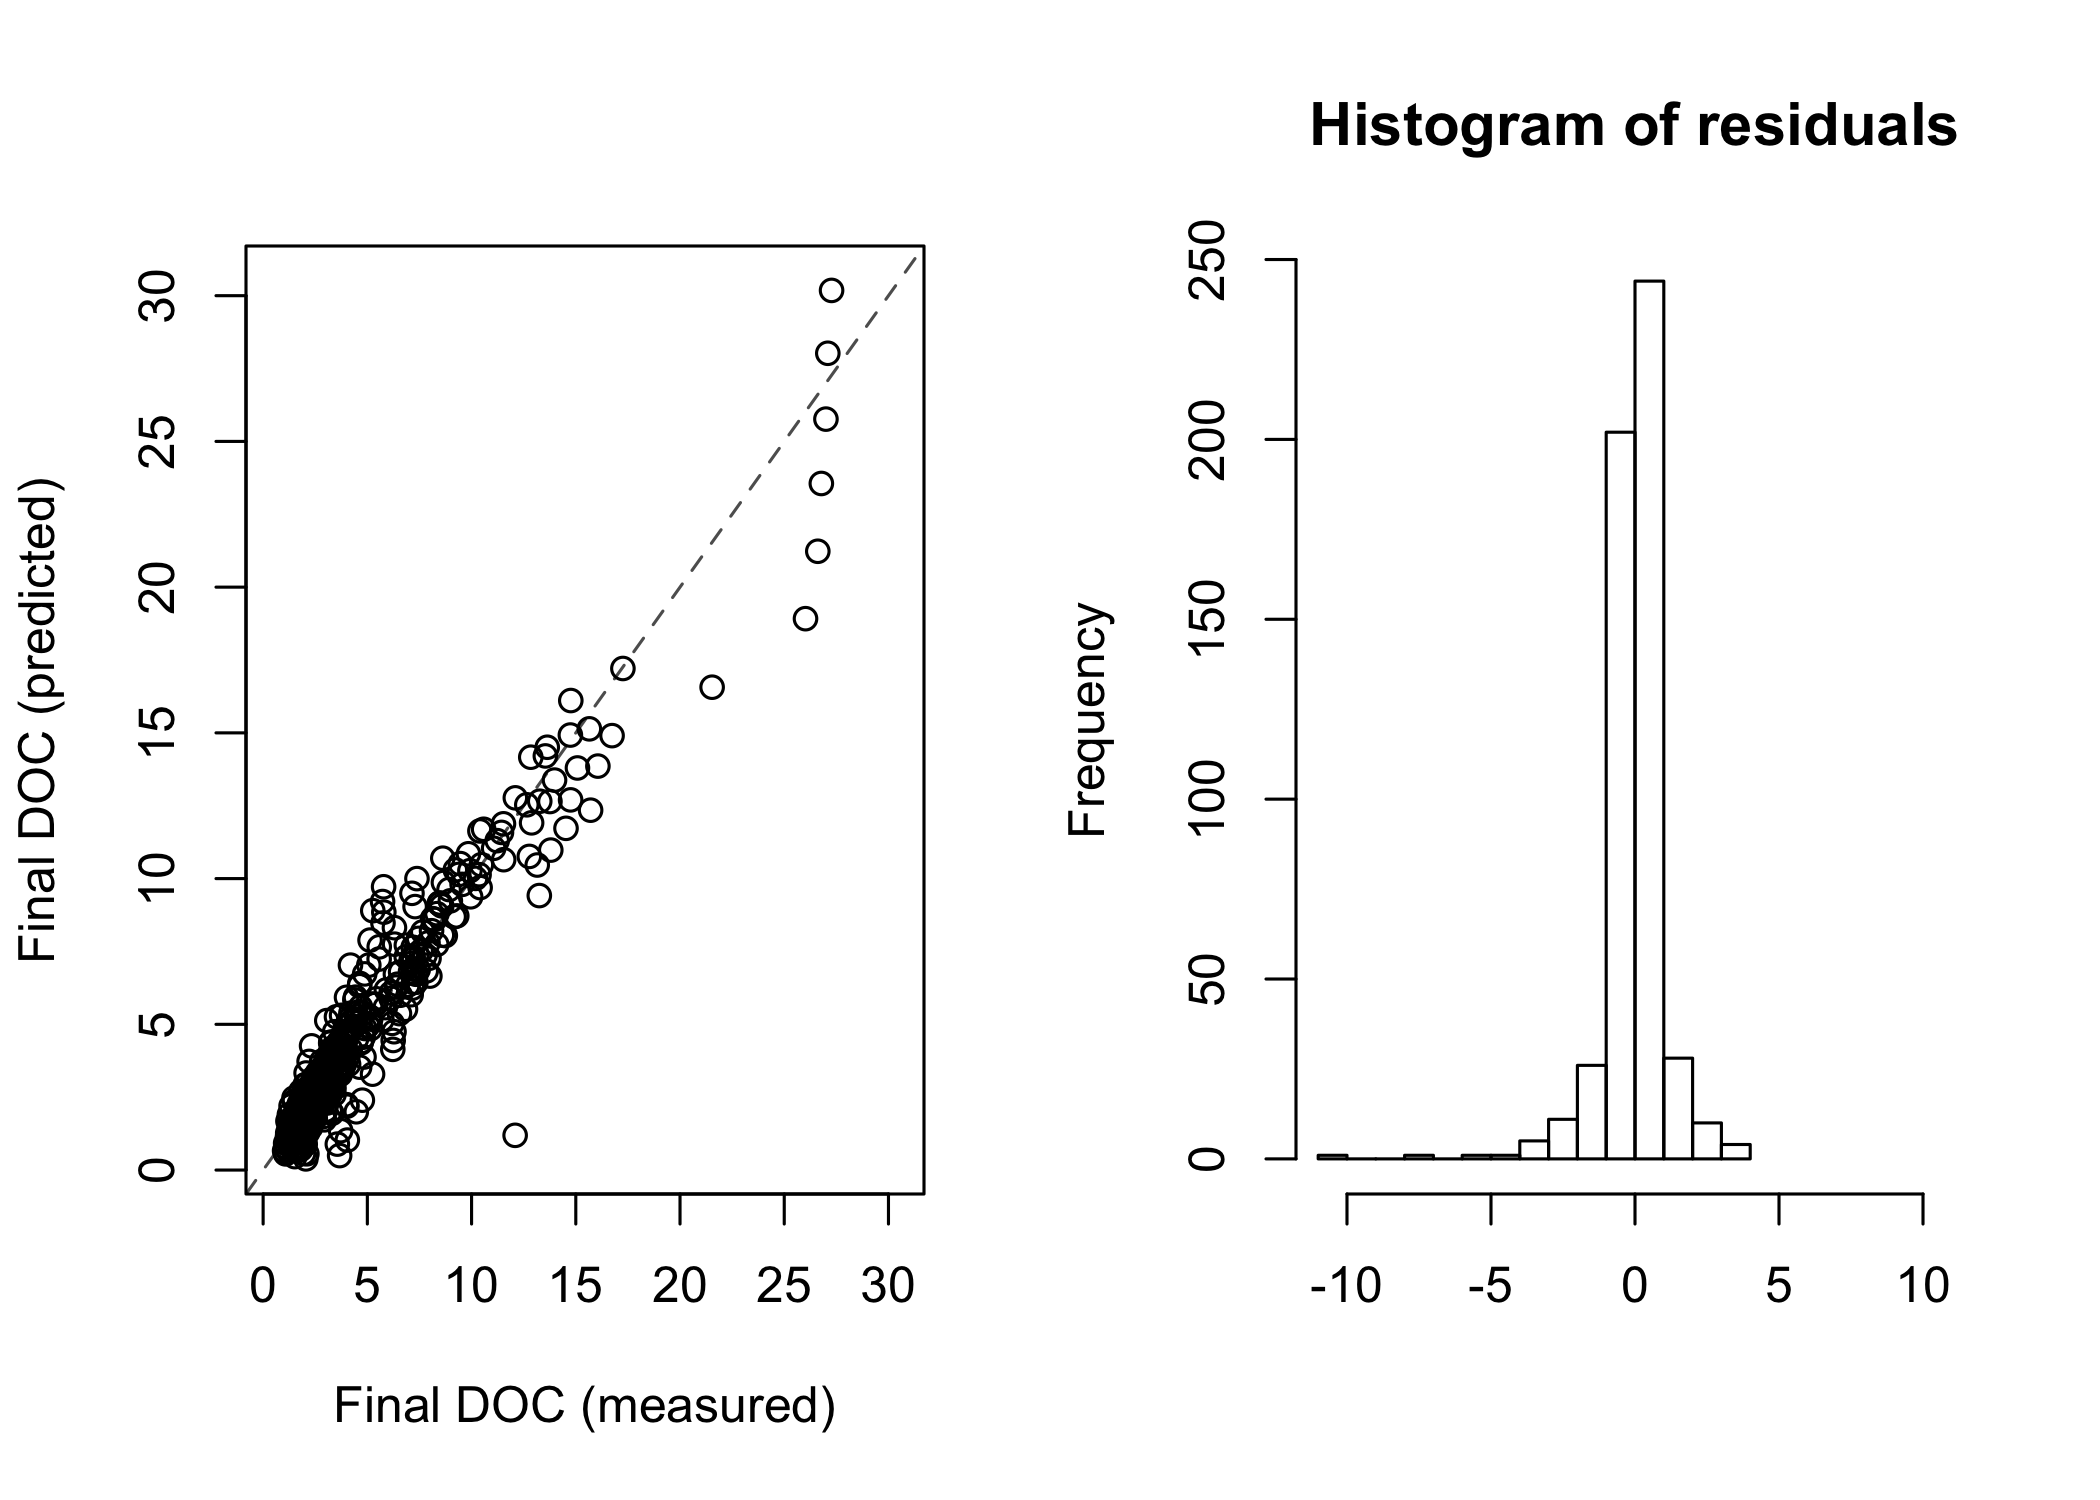
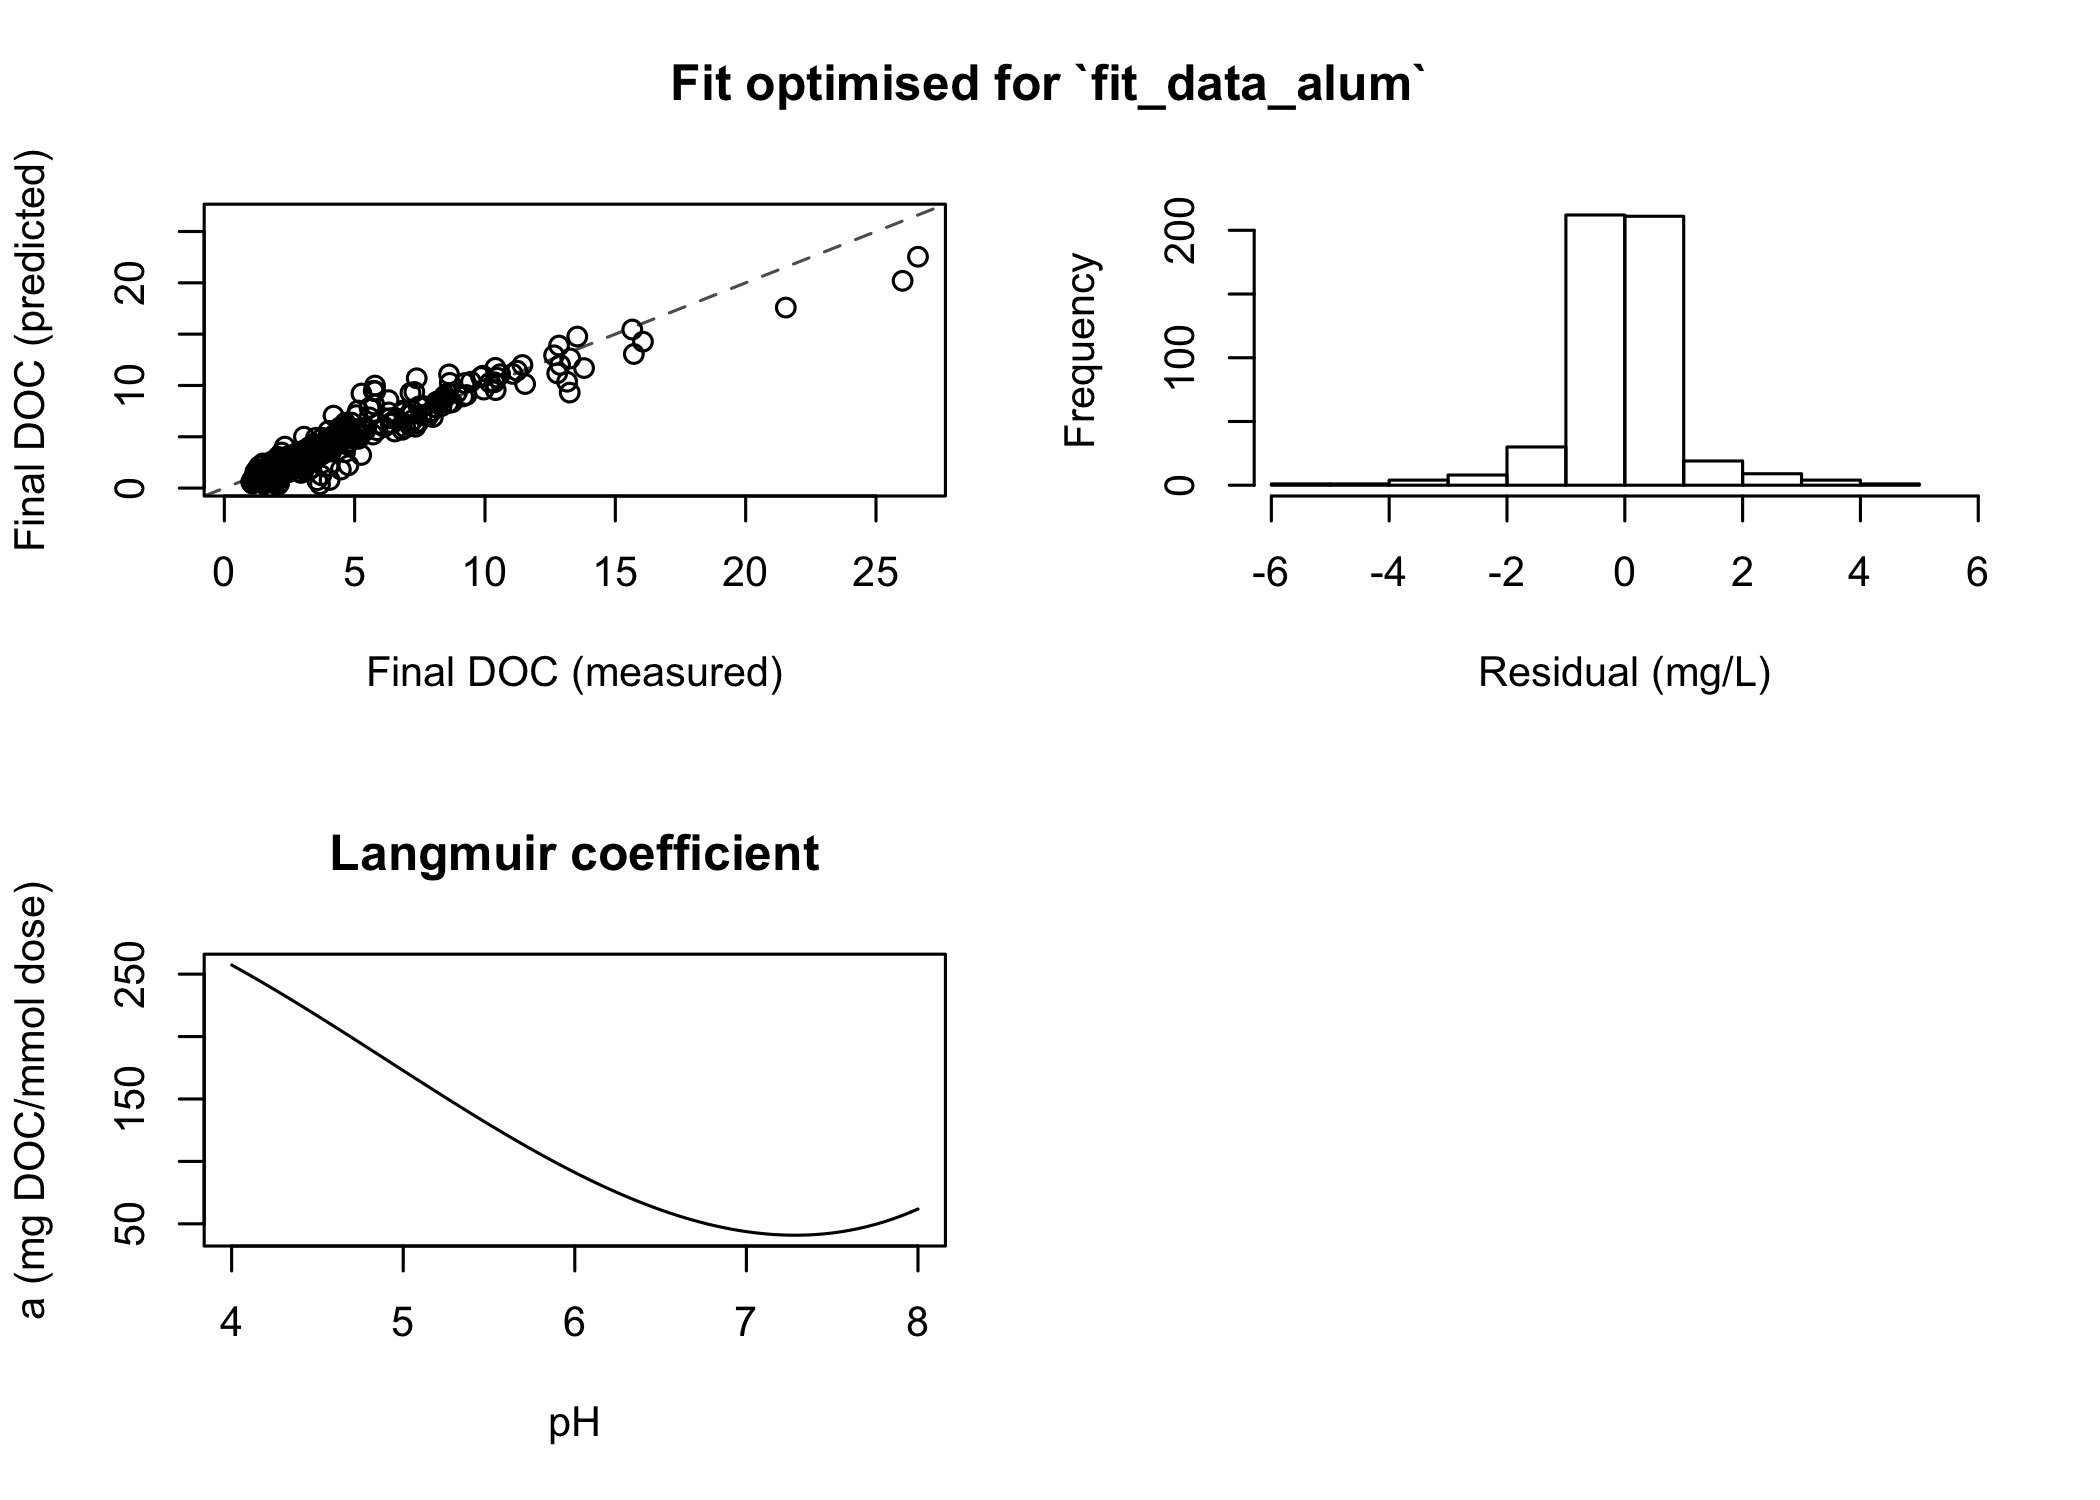
add in ability to examine edwards coeficients

diff --git a/README.md b/README.md
@@ -39,40 +39,36 @@ This is a basic example which shows you how to solve a common problem:
 ``` r
 library(edwards97)
 
-# `edwards_jar_tests` is included
-fit_data_alum <- edwards_jar_tests %>% 
-  filter(coagulant == "Alum")
-
-# Use TOC measurements as estimates of final DOC
-fit_data_alum$DOC_final <- fit_data_alum$TOC_final
+fit_data_alum <- edwards_data("Al")
 
 # optimise coefficients for this dataset
-fit <- fit_edwards_optim(fit_data_alum, initial_coefs = edwards_coefs("alum"))
+fit <- fit_edwards_optim(fit_data_alum, initial_coefs = edwards_coefs("Al"))
 
 # view fit results
 print(fit)
 #> <edwards_fit_optim>
+#>   Fit optimised for `fit_data_alum`
 #>   Coefficients:
-#>     K1 = -0.00524, K2 = -0.188, x1 = 382, x2 = -96.4, x3 = 6.23, b = 0.0343, root = -1
+#>     x3 = 5.21, x2 = -76.7, x1 = 288, K1 = -0.0057, K2 = -0.157, b = 0.0722, root = -1
 #>   Performance:
-#>     r² = 0.961, RMSE = 1.11 mg/L, degrees of freedom = 527
+#>     r² = 0.954, RMSE = 0.948 mg/L, number of finite observations = 500
 #>   Input data:
-#>       DOC              dose               pH            UV254       
-#>  Min.   : 1.800   Min.   :0.00000   Min.   :4.500   Min.   :0.0260  
-#>  1st Qu.: 2.900   1st Qu.:0.06734   1st Qu.:6.072   1st Qu.:0.0810  
-#>  Median : 4.000   Median :0.16835   Median :6.590   Median :0.1200  
-#>  Mean   : 6.595   Mean   :0.21998   Mean   :6.540   Mean   :0.1975  
-#>  3rd Qu.: 8.600   3rd Qu.:0.32338   3rd Qu.:7.018   3rd Qu.:0.2060  
-#>  Max.   :26.500   Max.   :1.51515   Max.   :8.830   Max.   :1.3550  
-#>  NA's   :383                                                        
+#>       DOC             dose              pH            UV254       
+#>  Min.   : 1.80   Min.   :0.0084   Min.   :4.500   Min.   :0.0260  
+#>  1st Qu.: 2.81   1st Qu.:0.1323   1st Qu.:5.808   1st Qu.:0.0810  
+#>  Median : 3.94   Median :0.2290   Median :6.500   Median :0.1060  
+#>  Mean   : 6.36   Mean   :0.2644   Mean   :6.430   Mean   :0.2323  
+#>  3rd Qu.: 6.70   3rd Qu.:0.3543   3rd Qu.:6.955   3rd Qu.:0.2470  
+#>  Max.   :26.50   Max.   :1.5152   Max.   :7.900   Max.   :1.3550  
+#>  NA's   :629     NA's   :629      NA's   :629     NA's   :629     
 #>    DOC_final     
-#>  Min.   : 0.760  
-#>  1st Qu.: 2.070  
-#>  Median : 2.690  
-#>  Mean   : 3.835  
-#>  3rd Qu.: 4.001  
-#>  Max.   :30.500  
-#> 
+#>  Min.   : 1.030  
+#>  1st Qu.: 1.968  
+#>  Median : 2.700  
+#>  Mean   : 3.793  
+#>  3rd Qu.: 4.025  
+#>  Max.   :26.610  
+#>  NA's   :629
 plot(fit)
 ```
 
